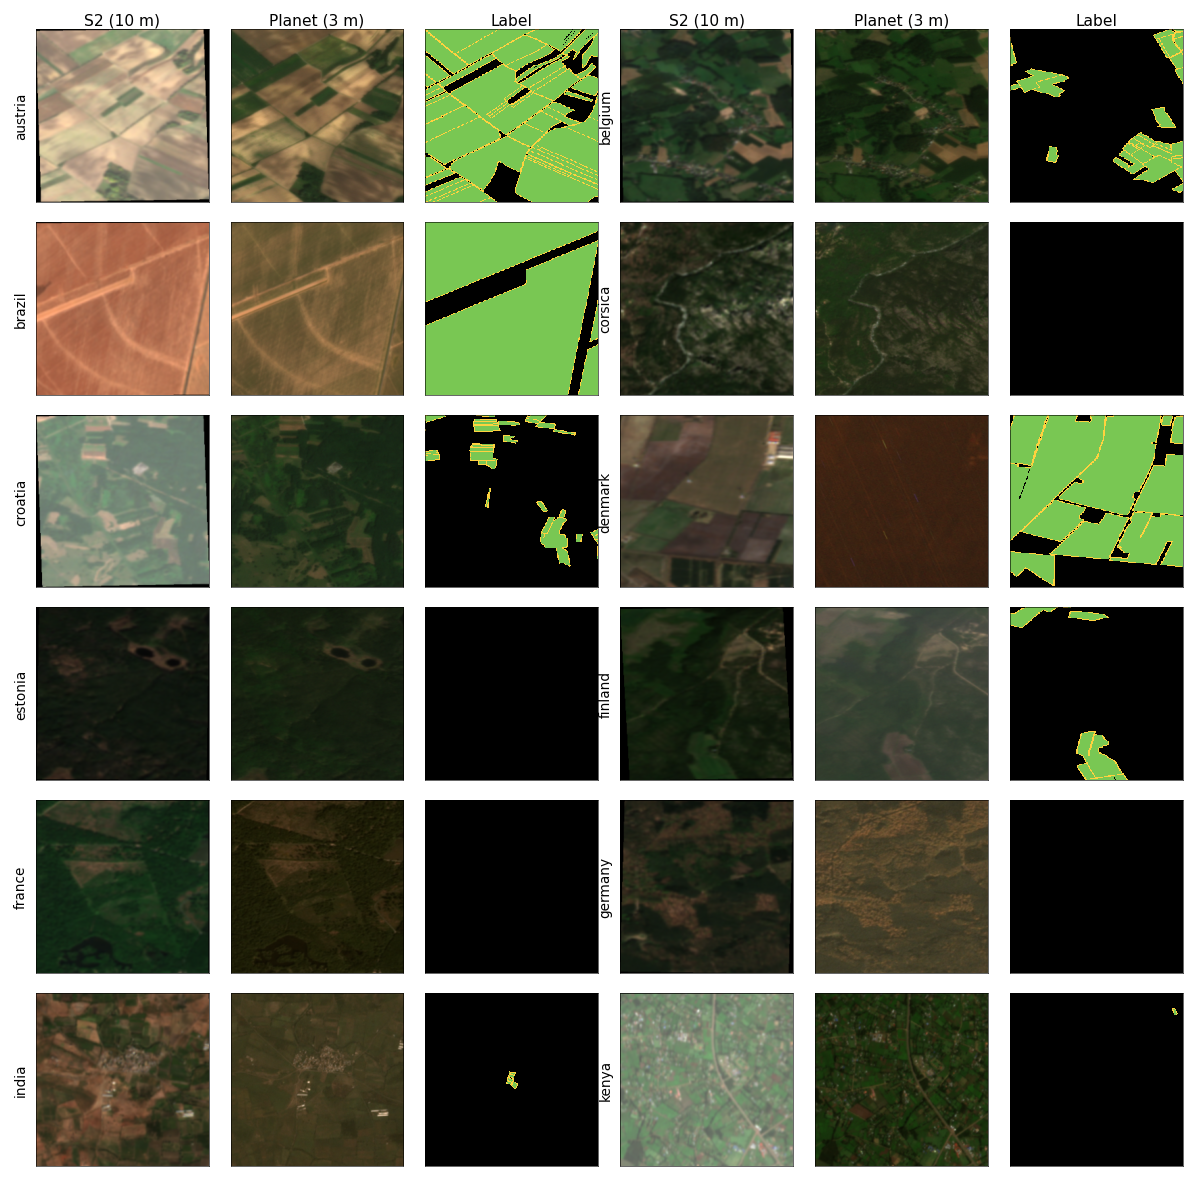
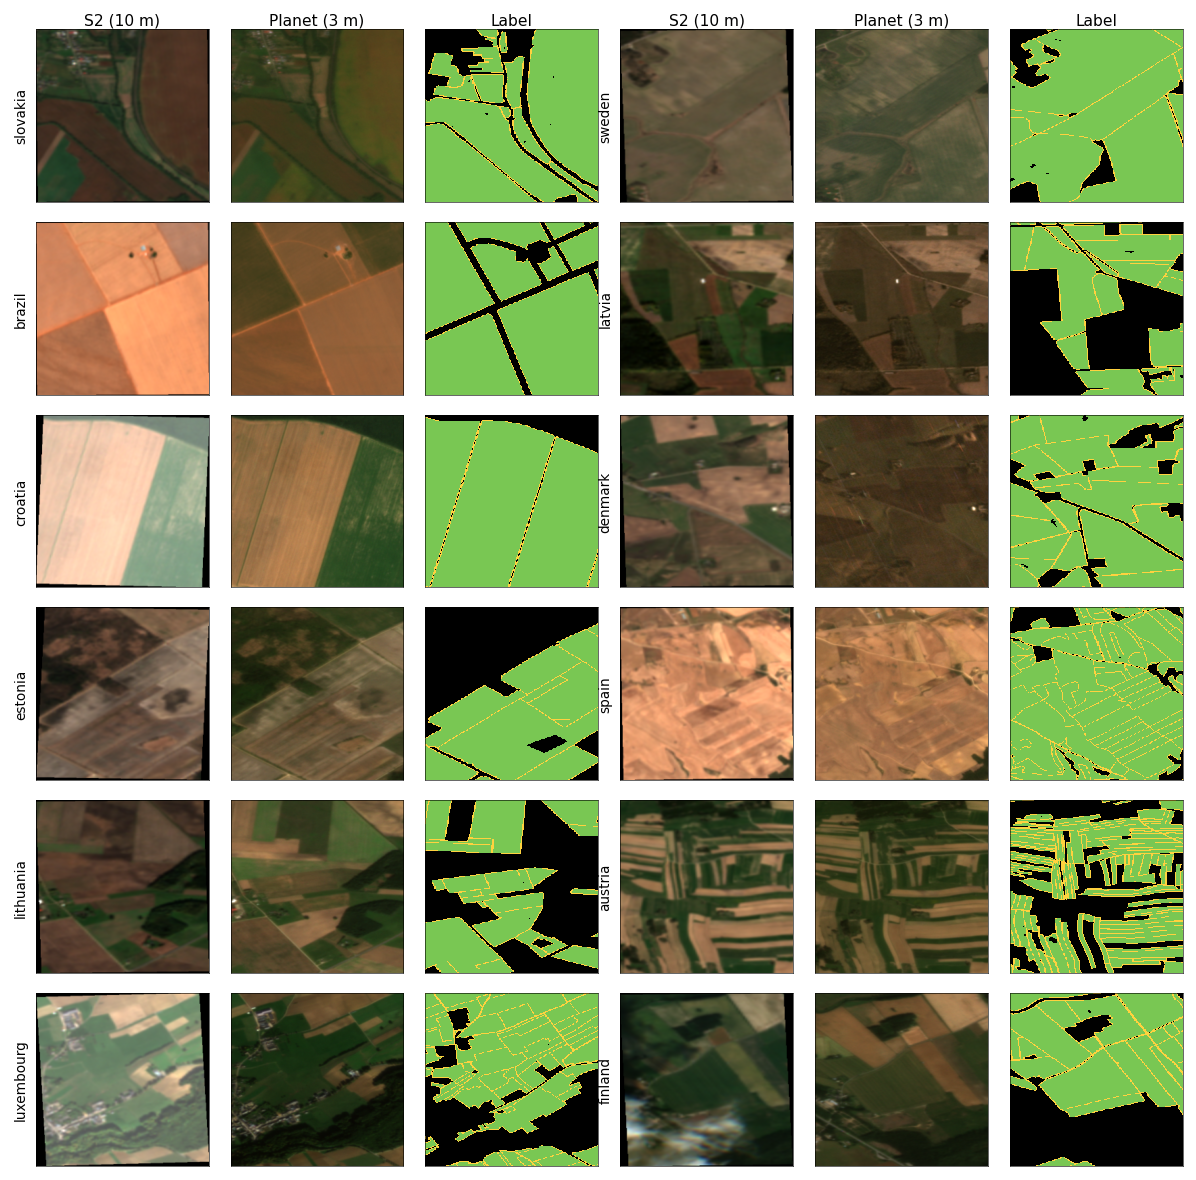
feat(hero): filter samples to field-dense patches (>=40% field coverage)

diff --git a/paper/make_hero.py b/paper/make_hero.py
@@ -42,6 +42,18 @@ def parse_args():
     )
     p.add_argument("--out", type=Path, default=Path("hero.pdf"))
     p.add_argument("--n", type=int, default=12, help="Number of triplets to include.")
+    p.add_argument(
+        "--min-field-pct",
+        type=float,
+        default=0.40,
+        help="Minimum fraction of patch pixels that are field interior (class 1).",
+    )
+    p.add_argument(
+        "--max-check",
+        type=int,
+        default=2000,
+        help="Max candidates to score by field-fraction before stopping.",
+    )
     p.add_argument("--seed", type=int, default=0)
     return p.parse_args()
 
@@ -125,6 +137,39 @@ def _candidate_patches(args: argparse.Namespace) -> list[tuple[str, str, str]]:
     return out
 
 
+def _label_field_fraction(planet_root: Path, country: str, pid: str, window: str) -> float:
+    """Return the fraction of label pixels that are class 1 (field interior)."""
+    p = planet_root / country / f"{pid}_{window}_label.tif"
+    try:
+        with rasterio.open(p) as src:
+            lbl = src.read(1)
+        return float((lbl == 1).sum()) / lbl.size
+    except Exception:
+        return 0.0
+
+
+def _filter_field_dense(
+    cands: list[tuple[str, str, str]],
+    planet_root: Path,
+    min_field_pct: float,
+    max_check: int,
+    seed: int,
+) -> list[tuple[str, str, str]]:
+    """Sample candidates and keep those with field coverage above threshold."""
+    rng = random.Random(seed)
+    rng.shuffle(cands)
+    kept: list[tuple[float, tuple[str, str, str]]] = []
+    for i, (c, pid, w) in enumerate(cands):
+        if i >= max_check:
+            break
+        frac = _label_field_fraction(planet_root, c, pid, w)
+        if frac >= min_field_pct:
+            kept.append((frac, (c, pid, w)))
+    # Return high-coverage first.
+    kept.sort(key=lambda x: x[0], reverse=True)
+    return [t for _, t in kept]
+
+
 def _pick_diverse(
     candidates: list[tuple[str, str, str]], n: int, seed: int
 ) -> list[tuple[str, str, str]]:
@@ -151,7 +196,12 @@ def main() -> int:
     args = parse_args()
     cands = _candidate_patches(args)
     print(f"{len(cands)} candidate patches with clear>=0.99 and all files present")
-    picks = _pick_diverse(cands, args.n, args.seed)
+    dense = _filter_field_dense(
+        cands, args.planet_root, args.min_field_pct, args.max_check, args.seed
+    )
+    print(f"{len(dense)} candidates with field coverage >= {args.min_field_pct:.0%} "
+          f"(checked up to {args.max_check} samples)")
+    picks = _pick_diverse(dense, args.n, args.seed)
     print(f"selected {len(picks)} triplets:")
     for c, pid, w in picks:
         print(f"  {c:14s} {pid}_{w}")